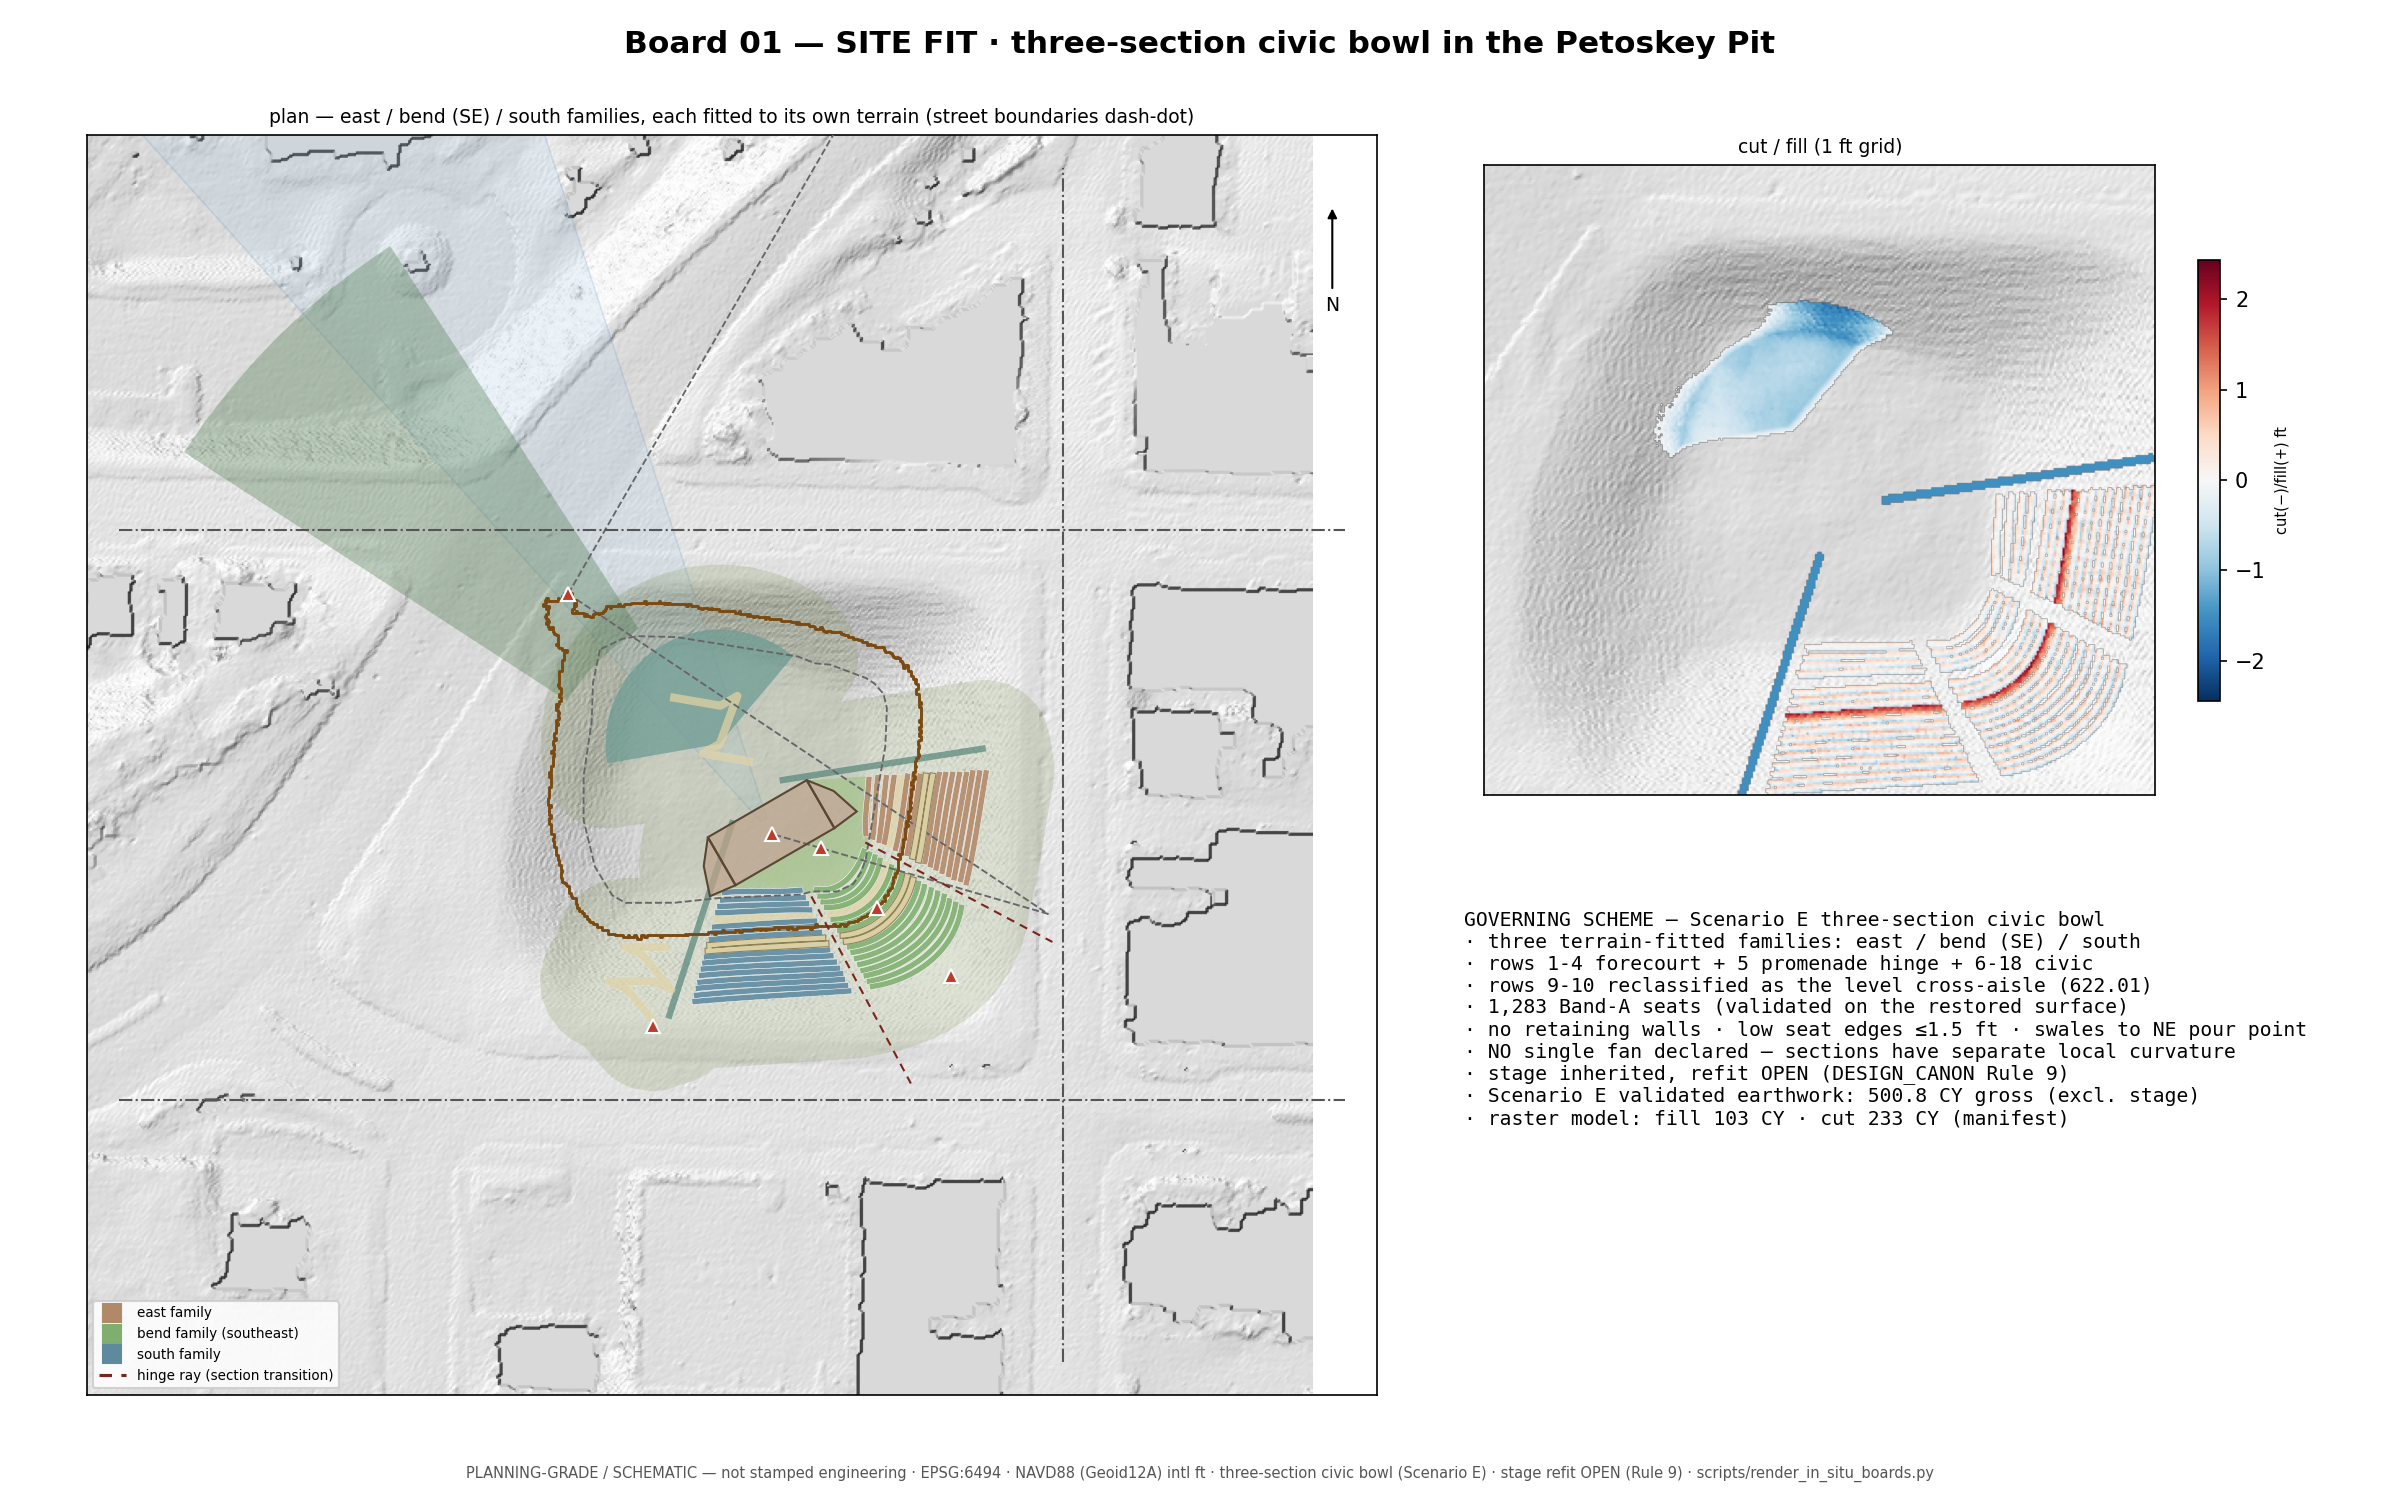
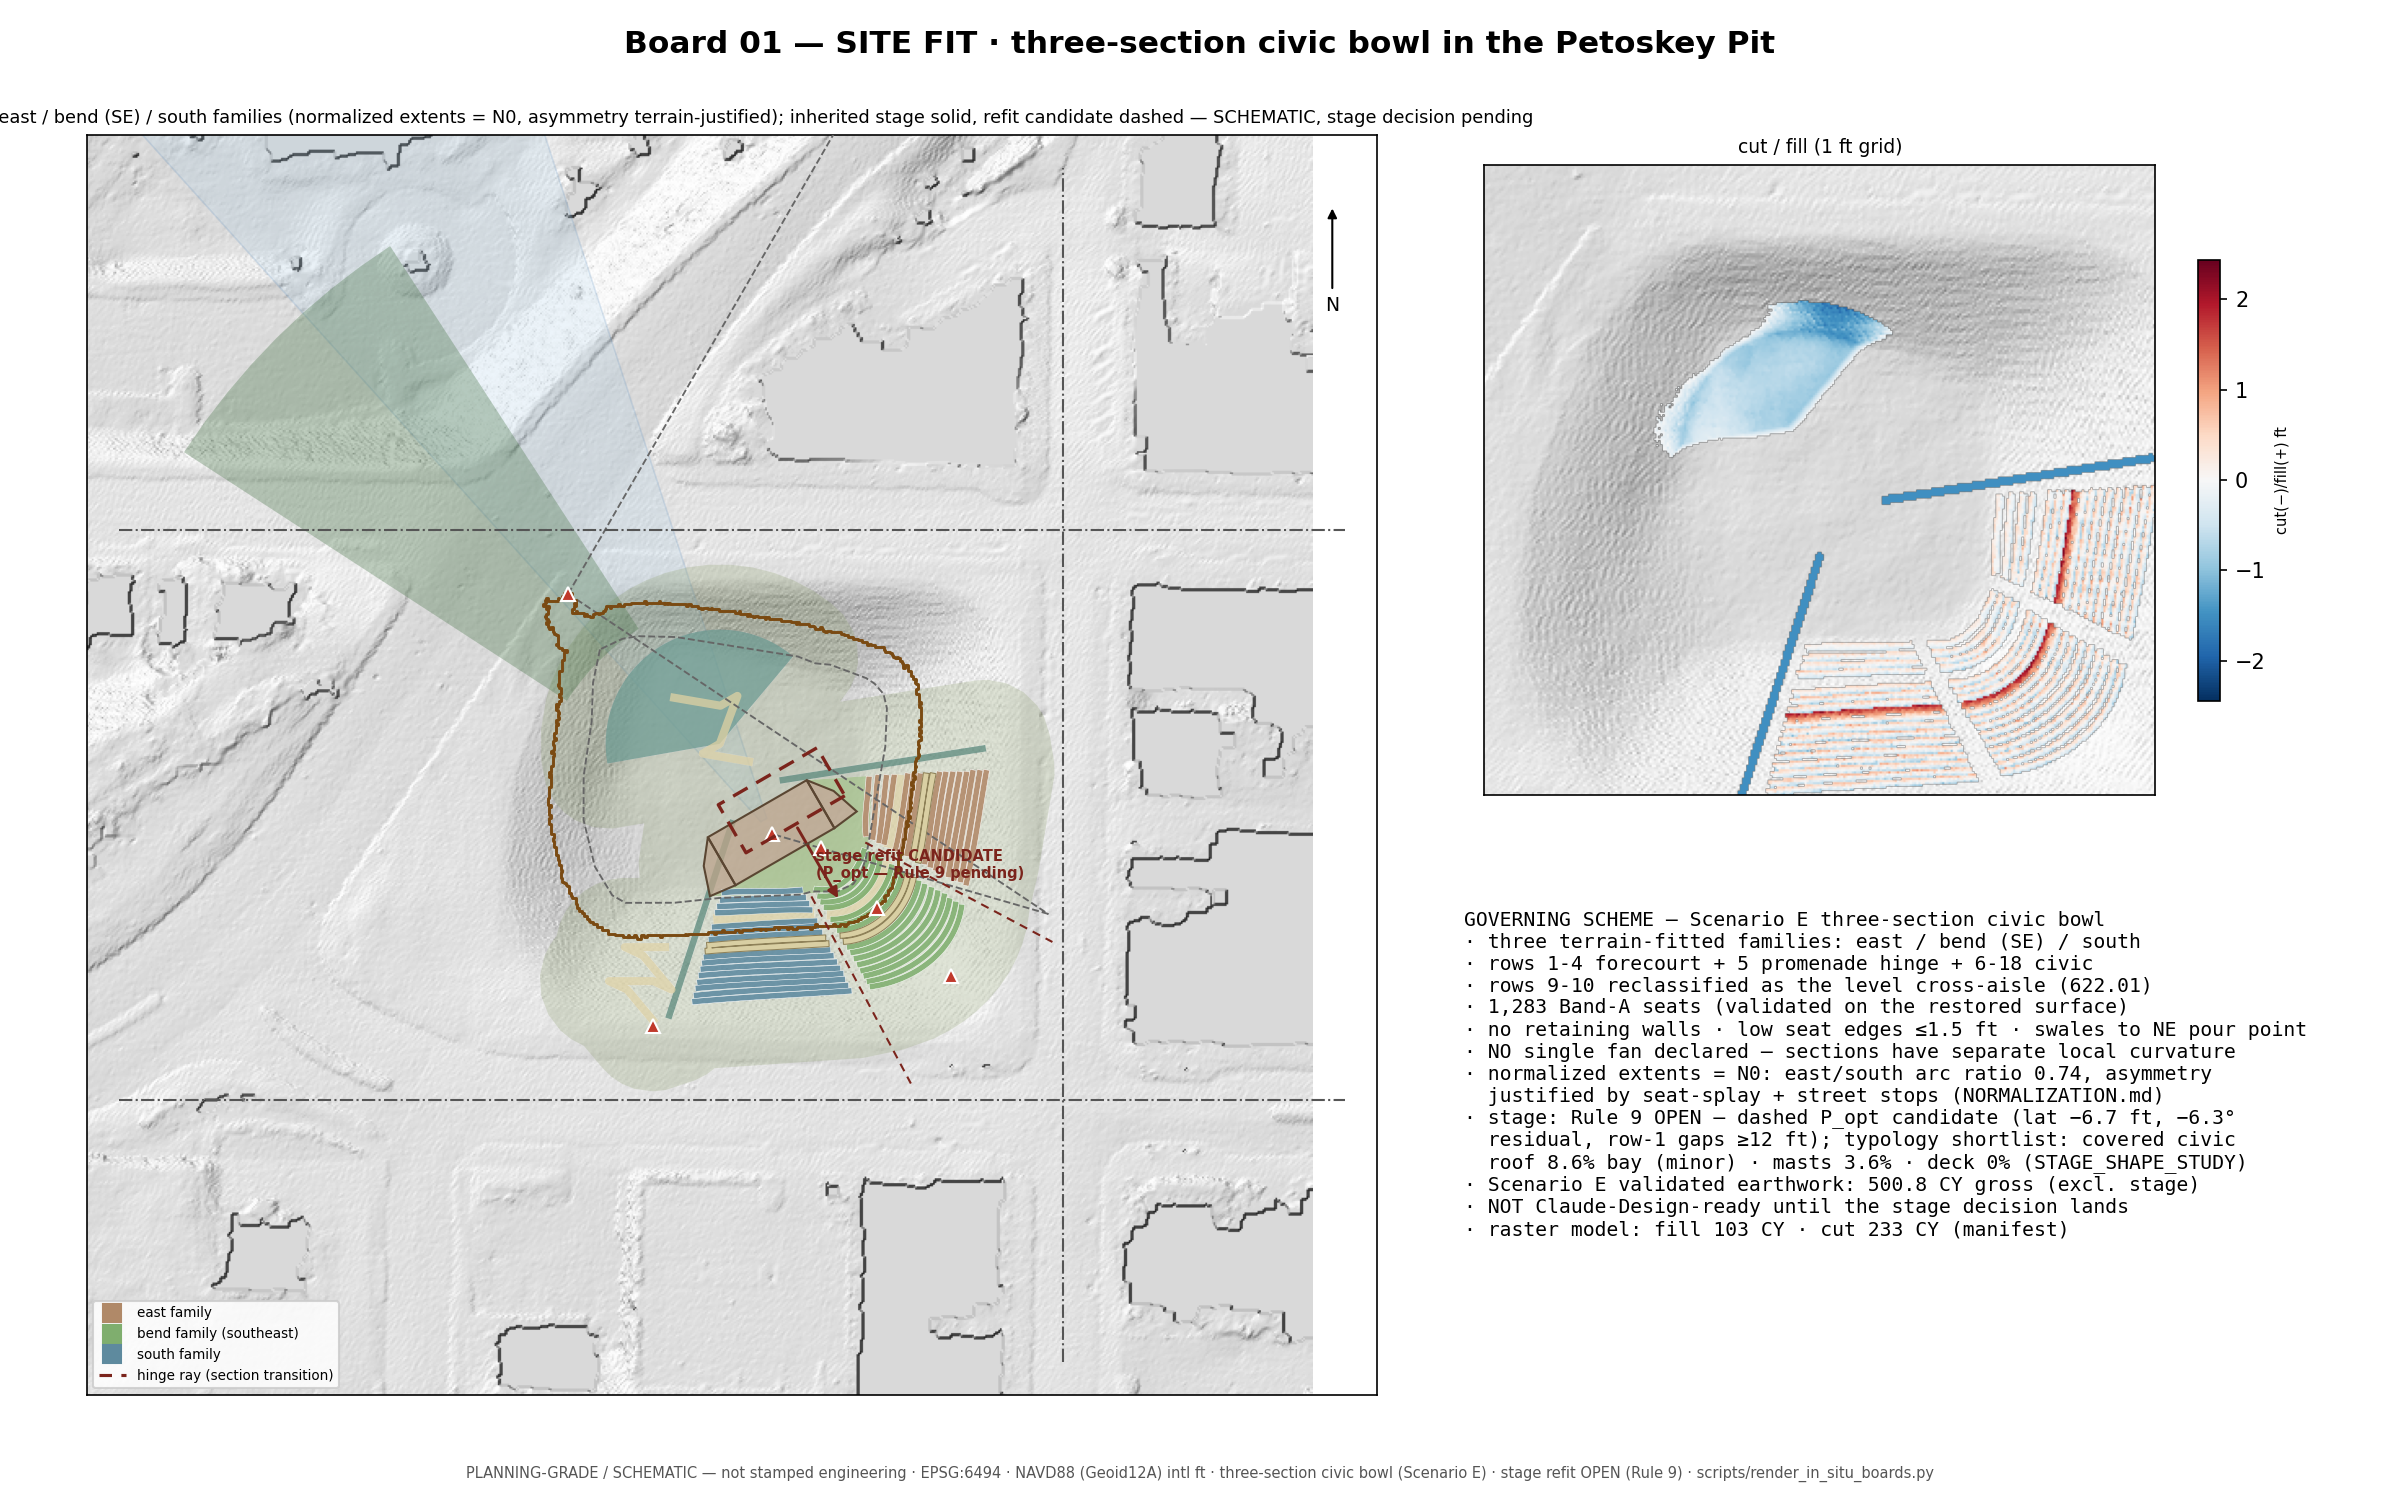
Wire normalization/circularity/stage-study gates; pause Claude Design handoff
Audit gate now enforces the 2026-06-10 corrective passes: normalization +
obstruction-envelope + stage-shape + decoupling artifacts required; audience
frame must be fresh vs the live tread layer (<=5 ft drift); section
imbalance beyond the declared threshold requires a measured justification;
the stage study must be tested against the CURRENT frame, include the
inherited placement explicitly, cite the independent zone analysis, test at
least one >=15 ft candidate ('open' != 'tiny'), and may never reject on
height alone or accept tall mass without incremental obstruction analysis;
the circularity gates require >=2 envelopes x >=2 zones, a ranked shortlist
>=3, an inherited-vs-alternatives comparison, and a winner explanation. The
old 8-ft stage height cap and the unconditional enclosing-structure regex
are replaced by obstruction-tested logic per the visual-envelope rule.

Board 01 regenerated: dashed P_opt stage-refit candidate with axis arrow
beside the inherited stage, normalized-extents note (N0), typology
shortlist, and an explicit NOT-Claude-Design-ready line; board_sources.json
carries claude_design_ready=false. docs/claude_design_handoff.md gets a
PAUSED banner (the low-stage-only framing there is superseded by the
visual-envelope rule). Brief documents the three studies and the refresh
sequence. 28 audit checks pass.

Changed region(s): [[0.625, 0.7053, 0.9375, 0.828], [0.0, 0.0613, 0.625, 0.092], [0.3125, 0.552, 0.4375, 0.5827]]

diff --git a/scripts/audit_in_situ_package.py b/scripts/audit_in_situ_package.py
@@ -313,13 +313,18 @@ def check_design_intent():
     bad_stage = []
     for f in stage_zones:
         p = f["properties"]
-        if (p.get("enclosure") != "none" or p.get("upstage_shell") is not False
-                or p.get("back_wall") is not False
-                or p.get("fly_tower") is not False
+        if (p.get("enclosure") == "full" or p.get("upstage_shell") is True
+                or p.get("back_wall") is True
                 or p.get("blocks_bay_view") is not False):
-            bad_stage.append(f"{p['zone']}: enclosure/bay-view flags wrong")
-        if p.get("max_structure_height_ft", 0) > 8.0:
-            bad_stage.append(f"{p['zone']}: height {p['max_structure_height_ft']} > 8 ft")
+            bad_stage.append(f"{p['zone']}: full-enclosure/bay-view flags wrong")
+        # NOTE: "open" means no unacceptable enclosure or new view blockage —
+        # NOT "tiny". Taller mass is fine when obstruction-tested; untested
+        # tall mass is the failure.
+        if (p.get("max_structure_height_ft", 0) > 8.0
+                and not p.get("obstruction_tested")):
+            bad_stage.append(
+                f"{p['zone']}: {p['max_structure_height_ft']} ft mass with no "
+                "incremental-obstruction test reference")
         if p.get("rule9_status") != "open":
             bad_stage.append(f"{p['zone']}: Rule 9 OPEN status not surfaced")
         if any("declared_fan" in k for k in p):
@@ -327,8 +332,8 @@ def check_design_intent():
     if bad_stage:
         fail("stage intent violations: " + "; ".join(bad_stage))
     elif stage_zones:
-        ok(f"{len(stage_zones)} stage zones open + low (no shell/back wall/"
-           "fly tower), Rule 9 OPEN surfaced, no fan declared")
+        ok(f"{len(stage_zones)} stage zones honest (no untested mass, no full "
+           "enclosure), Rule 9 OPEN surfaced, no fan declared")
     else:
         fail("no stage zones found in bowl_zones.geojson")
 
@@ -339,10 +344,11 @@ def check_design_intent():
             hay = " ".join(str(v) for k, v in f["properties"].items()
                            if k in ("name", "zone", "kind", "material", "use"))
             m = FORBIDDEN_STRUCTURES.search(hay)
-            if m:
+            if m and not f["properties"].get("obstruction_tested"):
                 named_bad.append(f"{layer}:{f['properties'].get('name')} ({m.group(0)})")
     if named_bad:
-        fail("forbidden structures named in layers: " + ", ".join(named_bad))
+        fail("enclosing structures named in layers without an "
+             "incremental-obstruction test: " + ", ".join(named_bad))
 
     aisle = zones.get("cross_aisle", [None])[0]
     if aisle is None:
@@ -400,6 +406,143 @@ def check_design_intent():
         ok("six event modes, all schematic + nonbinding; screen is night-only")
 
 
+def check_normalization_and_stage_study():
+    """Gates added 2026-06-10: section balance + audience frame, the
+    visual-envelope stage study, and the circularity decoupling."""
+    norm_dir = os.path.join(REPO, "analysis", "in_situ_normalization")
+    dec_dir = os.path.join(REPO, "analysis", "stage_seating_decoupling")
+    need = {
+        "normalization": [os.path.join(norm_dir, n) for n in (
+            "section_balance.json", "normalization_candidates.json",
+            "NORMALIZATION.md", "obstruction_envelope.json",
+            "stage_typology_scores.json", "STAGE_SHAPE_STUDY.md")],
+        "decoupling": [os.path.join(dec_dir, n) for n in (
+            "CIRCULARITY_AUDIT.md", "audience_envelopes.geojson",
+            "stage_opportunity_zones.geojson",
+            "pairwise_stage_audience_scores.csv",
+            "STAGE_SEATING_PARETO.md", "pareto_summary.json")],
+    }
+    missing = [os.path.relpath(p, REPO) for ps in need.values() for p in ps
+               if not os.path.exists(p)]
+    if missing:
+        fail("normalization / stage-study / circularity artifacts missing — "
+             "seating geometry may not justify the stage without them: "
+             + ", ".join(missing))
+        return
+    ok("normalization, obstruction-envelope, stage-shape, and circularity "
+       "artifacts all present")
+
+    bal = json.load(open(os.path.join(norm_dir, "section_balance.json")))
+    # frame freshness vs the live tread layer
+    treads = load_vec("terrace_treads.geojson")["features"]
+    import numpy as np
+    from shapely.geometry import shape as _shape
+
+    w = np.array([f["properties"]["seats_kept"] for f in treads], float)
+    cx = np.array([_shape(f["geometry"]).centroid.x for f in treads])
+    cy = np.array([_shape(f["geometry"]).centroid.y for f in treads])
+    live = ((cx * w).sum() / w.sum(), (cy * w).sum() / w.sum())
+    rec = bal["audience_frame"]["audience_centroid_seatweighted"]
+    drift = ((live[0] - rec[0]) ** 2 + (live[1] - rec[1]) ** 2) ** 0.5
+    if drift > 5.0:
+        fail(f"audience frame stale: recorded centroid {drift:.1f} ft from "
+             "the live tread layer — re-run scripts/normalize_sections.py")
+    else:
+        ok(f"audience frame fresh (centroid drift {drift:.1f} ft ≤ 5)")
+
+    imb = bal["imbalance"]
+    if (imb["min_max_ratio"] < imb["declared_threshold"]
+            and not imb.get("asymmetry_justification", "").strip()):
+        fail(f"section imbalance {imb['min_max_ratio']} below declared "
+             f"threshold {imb['declared_threshold']} with NO justification")
+    else:
+        ok(f"section imbalance {imb['min_max_ratio']} vs threshold "
+           f"{imb['declared_threshold']} — "
+           + ("within threshold" if imb["within_threshold"]
+              else "justified by measured street/terrain/splay stops"))
+
+    st = json.load(open(os.path.join(norm_dir, "stage_typology_scores.json")))
+    sf = st.get("frame_source", {}).get("audience_centroid", [0, 0])
+    if ((sf[0] - rec[0]) ** 2 + (sf[1] - rec[1]) ** 2) ** 0.5 > 1.0:
+        fail("stage study not tested against the CURRENT audience frame")
+    if "P_inherited" not in st.get("placement_axis_comparison", {}):
+        fail("inherited stage placement was not explicitly tested against "
+             "the audience frame (fixed-by-inheritance)")
+    izt = st.get("independent_zone_test", {})
+    if not izt.get("co_leader_band"):
+        fail("stage study does not cite the independent stage-opportunity "
+             "zone analysis — seating alone may not justify the stage")
+    tall_tested = False
+    bad_verdicts = []
+    for name, r in st.get("typologies", {}).items():
+        hmax = max(e["height_ft"] for e in r["elements"])
+        if hmax >= 15.0:
+            tall_tested = True
+        v = r.get("verdict", "")
+        if v.startswith("FLAGGED") and "%" not in v:
+            bad_verdicts.append(f"{name}: flagged without a measured share")
+        vl = v.lower()
+        if "too tall" in vl or ("height" in vl
+                                and "not a height" not in vl):
+            bad_verdicts.append(f"{name}: rejected merely for height")
+        if not v.startswith("FLAGGED") and hmax > 8.0 \
+                and "incremental_obstruction" not in r:
+            bad_verdicts.append(f"{name}: tall candidate accepted without "
+                                "incremental obstruction analysis")
+    if not tall_tested:
+        fail("no stage candidate ≥15 ft was tested — 'open' is being "
+             "interpreted as 'tiny'; taller utilitarian typologies must be "
+             "measured, not excluded a priori")
+    if bad_verdicts:
+        fail("stage typology verdict violations: " + "; ".join(bad_verdicts))
+    if tall_tested and not bad_verdicts:
+        ok(f"{len(st.get('typologies', {}))} typologies incl. tall mass "
+           "tested under the visual-envelope rule; no height-only rejections")
+
+    par = json.load(open(os.path.join(dec_dir, "pareto_summary.json")))
+    probs = []
+    if par.get("n_envelopes", 0) < 2 or par.get("n_stage_zones", 0) < 2:
+        probs.append("fewer than 2 envelopes or 2 stage zones — no real "
+                     "independent comparison")
+    if len(par.get("ranked_shortlist", [])) < 3:
+        probs.append("no ranked/Pareto shortlist (single-design output)")
+    if not par.get("why_winner_beats_runner_up", "").strip():
+        probs.append("winner lacks an explanation vs nearby alternatives")
+    if par.get("stage_zones_derived_from_seating") is not False:
+        probs.append("stage zones not declared independent of seating")
+    import csv as _csv
+    with open(os.path.join(dec_dir, "pairwise_stage_audience_scores.csv")) as fh:
+        rows = list(_csv.DictReader(fh))
+    inh = {r["contains_inherited_stage"] for r in rows}
+    if not ({"True", "False"} <= inh):
+        probs.append("pairwise table never compares inherited vs "
+                     "non-inherited stage zones (fixed-by-inheritance)")
+    if probs:
+        fail("circularity gates: " + "; ".join(probs))
+    else:
+        ok(f"circularity broken: {par['n_envelopes']} envelopes x "
+           f"{par['n_stage_zones']} zones, shortlist of "
+           f"{len(par['ranked_shortlist'])}, inherited location compared "
+           "(not assumed), winner explained")
+
+    man_path = os.path.join(REPO, "boards", "board_sources.json")
+    if os.path.exists(man_path):
+        man = json.load(open(man_path))
+        if man.get("claude_design_ready") is not False:
+            fail("boards claim Claude-Design readiness while Rule 9 is OPEN "
+                 "and the stage decision is pending")
+        else:
+            ok("boards explicitly not Claude-Design-ready (Rule 9 open)")
+    hand = os.path.join(REPO, "docs", "claude_design_handoff.md")
+    if os.path.exists(hand):
+        head = open(hand).read(400)
+        if "PAUSED" not in head:
+            fail("docs/claude_design_handoff.md not marked PAUSED while the "
+                 "stage decision is unresolved")
+        else:
+            ok("Claude Design handoff marked PAUSED")
+
+
 def check_rasters(rasters_present):
     if not rasters_present:
         return
@@ -448,6 +591,7 @@ def main():
     check_board_manifest()
     check_viewpoints()
     check_design_intent()
+    check_normalization_and_stage_study()
     check_rasters(rasters_present)
 
     print("\n── in-situ package audit (three-section civic bowl) ──")

diff --git a/scripts/render_in_situ_boards.py b/scripts/render_in_situ_boards.py
@@ -276,6 +276,30 @@ def axis_profile(ax, treads, comp, D):
     ax.grid(alpha=0.2)
 
 
+def stage_refit_overlay(ax):
+    """Dashed P_opt candidate footprint + axis arrow, if the study exists."""
+    path = os.path.join(C.REPO, "analysis", "in_situ_normalization",
+                        "stage_typology_scores.json")
+    if not os.path.exists(path):
+        return None
+    st = json.load(open(path))
+    sel = st["selected_placement"]
+    P, az = sel["front_centre"], sel["axis_az"]
+    ux, uy = C.U(az)
+    wx, wy = C.U(az + 90.0)
+    corners = [(P[0] + ux * u + wx * w, P[1] + uy * u + wy * w)
+               for u, w in ((0, -35), (0, 35), (-34, 35), (-34, -35), (0, -35))]
+    xs, ys = zip(*corners)
+    ax.plot(xs, ys, color="#7b241c", lw=1.6, ls=(0, (5, 3)), zorder=9)
+    ex, ey = C.polar(55, az, P[0], P[1])
+    ax.annotate("", xy=(ex, ey), xytext=(P[0], P[1]),
+                arrowprops=dict(arrowstyle="-|>", color="#7b241c", lw=1.4))
+    ax.annotate("stage refit CANDIDATE\n(P_opt — Rule 9 pending)",
+                (P[0], P[1]), textcoords="offset points", xytext=(10, -26),
+                fontsize=7, color="#7b241c", fontweight="bold", zorder=10)
+    return st
+
+
 def board_01(mats, treads, zones, ctx, vps, D):
     fig = plt.figure(figsize=(16, 10), dpi=150)
     fig.suptitle("Board 01 — SITE FIT · three-section civic bowl in the Petoskey Pit",
@@ -286,11 +310,14 @@ def board_01(mats, treads, zones, ctx, vps, D):
     rim = [f for f in ctx if f["properties"]["kind"] == "rim_arrival_edge"]
     streets = [f for f in ctx if f["properties"]["kind"] == "street_edge"]
     draw_layer(ax, streets, color="#555555", lw=1.0, ls="-.", zorder=3)
+    study = stage_refit_overlay(ax)
     fmt_axes(ax, all_bounds([streets or rim]), pad=20)
     north_arrow(ax)
     section_legend(ax)
-    ax.set_title("plan — east / bend (SE) / south families, each fitted to its "
-                 "own terrain (street boundaries dash-dot)", fontsize=9)
+    ax.set_title("plan — east / bend (SE) / south families (normalized extents "
+                 "= N0, asymmetry terrain-justified); inherited stage solid, "
+                 "refit candidate dashed — SCHEMATIC, stage decision pending",
+                 fontsize=8.5)
 
     axc = fig.add_axes([0.61, 0.47, 0.36, 0.42])
     man_path = os.path.join(C.REPO, "dem", "in_situ_grading_manifest.json")
@@ -320,8 +347,13 @@ def board_01(mats, treads, zones, ctx, vps, D):
         f"· {seats:,} Band-A seats (validated on the restored surface)",
         "· no retaining walls · low seat edges ≤1.5 ft · swales to NE pour point",
         "· NO single fan declared — sections have separate local curvature",
-        "· stage inherited, refit OPEN (DESIGN_CANON Rule 9)",
+        "· normalized extents = N0: east/south arc ratio 0.74, asymmetry",
+        "  justified by seat-splay + street stops (NORMALIZATION.md)",
+        "· stage: Rule 9 OPEN — dashed P_opt candidate (lat −6.7 ft, −6.3°",
+        "  residual, row-1 gaps ≥12 ft); typology shortlist: covered civic",
+        "  roof 8.6% bay (minor) · masts 3.6% · deck 0% (STAGE_SHAPE_STUDY)",
         "· Scenario E validated earthwork: 500.8 CY gross (excl. stage)",
+        "· NOT Claude-Design-ready until the stage decision lands",
     ]
     if man:
         lines.append(f"· raster model: fill {man['fill_cy_total']:.0f} CY · "
@@ -469,6 +501,12 @@ def main():
             "sections": list(C.SECTIONS),
             "single_fan_declared": False,
             "stage_rule9_status": C.STAGE_RULE9_STATUS,
+            "claude_design_ready": False,
+            "stage_refit_candidate": "P_opt (analysis/in_situ_normalization/"
+                                     "stage_typology_scores.json) — candidate "
+                                     "only, decision pending",
+            "normalization": "N0 selected (analysis/in_situ_normalization/"
+                             "section_balance.json)",
             "superseded_sources_excluded": list(C.SUPERSEDED_SCHEMES),
             "boards": ["01_site_fit_board.png", "02_experience_board.png",
                        "03_landscape_character_board.png"],

diff --git a/docs/in_situ_design_brief.md b/docs/in_situ_design_brief.md
@@ -127,6 +127,46 @@ relative path, plus the extended-bays centrelines.
   status on every stage feature and board and declares no fan. Resolving
   Rule 9 (paths 1–4) is the first manual review step below.
 
+## Normalization, circularity, and the stage-shape study (2026-06-10)
+
+Pre-handoff corrective passes, all measured (DEM ray tracing + tracked
+geometry), all enforced by the audit gate:
+
+- **Section balance / audience frame** (`analysis/in_situ_normalization/
+  NORMALIZATION.md`): east/bend/south = 835/952/1129 ft of arc (ratio 0.74 vs
+  declared 0.75) — asymmetry **justified**: a contour walk shows the east
+  flank is bounded by the 45° seat-splay gate (the basin wraps north), with
+  the street corner behind it. N0 (status quo) selected; east re-march and
+  +row 19 remain analysis-tier candidates; south trim rejected. Frame:
+  centroid bearing 124.6° vs inherited axis 150° (−25.4°, −22.2 ft lateral).
+- **Circularity broken** (`analysis/stage_seating_decoupling/
+  CIRCULARITY_AUDIT.md`): the focal point that anchored the seating march
+  descends from the stage lineage, so seating could not be allowed to justify
+  the stage. Terrain-first audience envelopes (4, by facing class) ×
+  independent stage zones (3, + the NW pan sector rejected: treatment cell)
+  were paired and ranked; the top three pairs tie within proxy noise and the
+  inherited stage centroid sits inside the co-leading southern pan-toe band —
+  the *general* location is re-derived, the exact footprint is not inherited.
+- **Stage-shape study** (`analysis/in_situ_normalization/
+  STAGE_SHAPE_STUDY.md`): "low stage only" is replaced by the
+  **visual-envelope rule** — mass hiding below the terrain silhouette behind
+  it adds no obstruction; new bay/foreground/sky blockage is measured per
+  family; height is never a rejection reason. Placement P_opt (az 150 kept,
+  lateral + upstage search; residual −6.7 ft / −6.3°, row-1 gaps ≥ 12 ft) —
+  the row-1 pocket forbids zeroing the offset. Seven utilitarian typologies
+  scored: deck 0% bay · covered civic roof 8.6% (minor; strongest operations
+  27/40) · movie masts 3.6% · side-framed 4.3% bay / 30% foreground ·
+  asymmetric BOH bay-clear / 58% foreground (caveat) · acoustic canopy 16.1%
+  and hybrid 18.6% bay FLAGGED pending redesign.
+- **Status: Claude Design handoff PAUSED** (`docs/claude_design_handoff.md`
+  banner) until a Rule 9 path + typology are adopted; boards carry
+  `claude_design_ready: false` and label the dashed P_opt as CANDIDATE.
+
+Refresh sequence (needs the DEM): `python scripts/normalize_sections.py &&
+python scripts/obstruction_envelope.py && python scripts/
+stage_seating_decoupling.py && python scripts/stage_shape_study.py`, then
+re-run the board/audit pipeline.
+
 ## Missing inputs
 
 - `dem/dem_design_1ft.tif` on fresh checkouts — restore per

diff --git a/docs/claude_design_handoff.md b/docs/claude_design_handoff.md
@@ -1,5 +1,15 @@
 # Claude Design handoff — three-section civic bowl, Petoskey Pit
 
+> ## ⏸ HANDOFF PAUSED (2026-06-10)
+> The stage decision is unresolved. The seating balance is quantified and the
+> stage is now derived from the audience frame + independent zone analysis
+> (`analysis/in_situ_normalization/STAGE_SHAPE_STUDY.md`,
+> `analysis/stage_seating_decoupling/STAGE_SEATING_PARETO.md`), but a Rule 9
+> path and a stage typology have not been adopted. Do **not** start visual
+> work from this document until this banner is removed; the "low stage only"
+> framing below is superseded by the visual-envelope rule (taller utilitarian
+> mass is acceptable where the obstruction study clears it).
+
 **Purpose:** visual / prototype brief for Claude Design. Everything here
 packages **audited repo outputs** (`scripts/audit_in_situ_package.py` green
 as of this handoff). **Do not invent geometry** — consume the layers listed